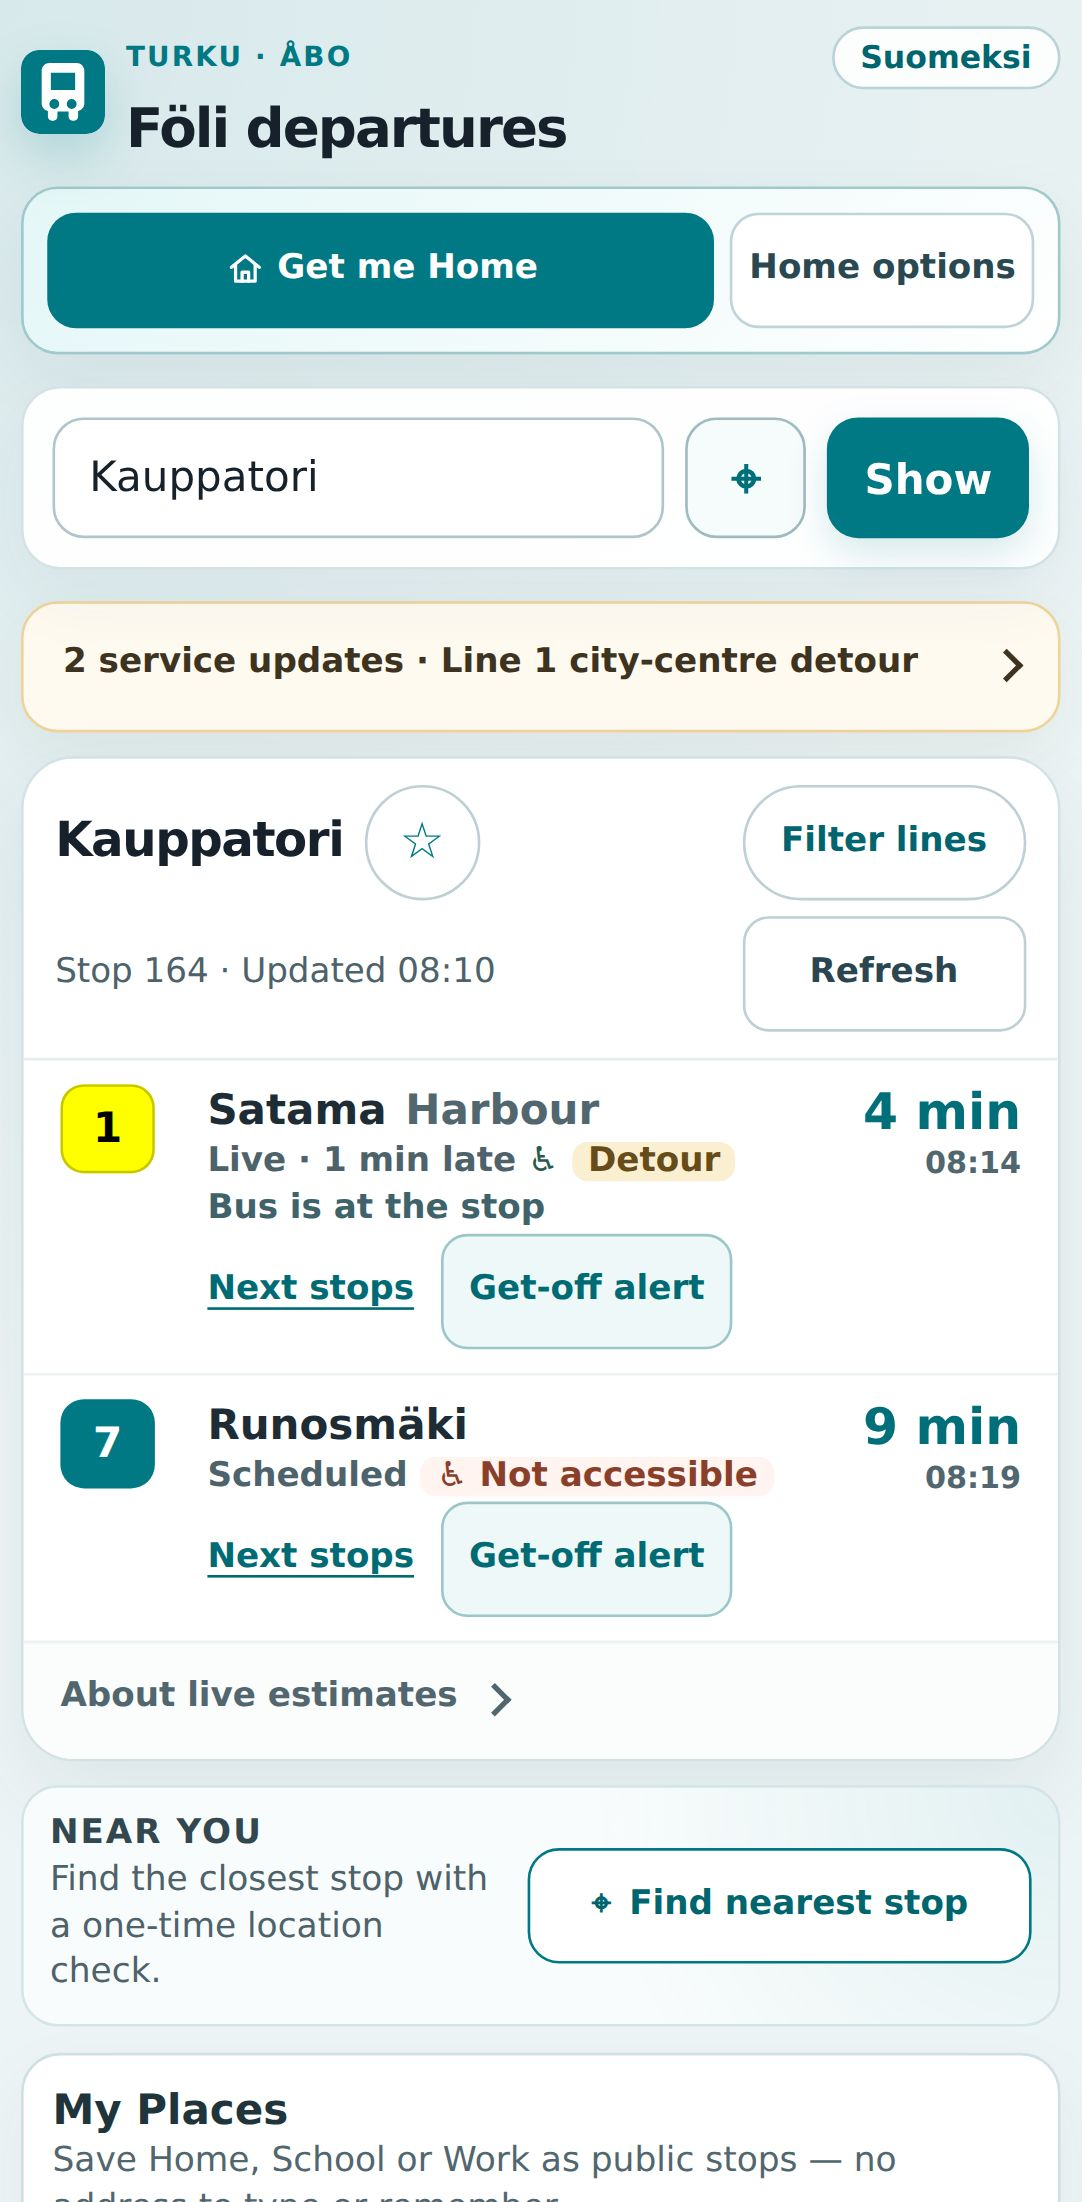
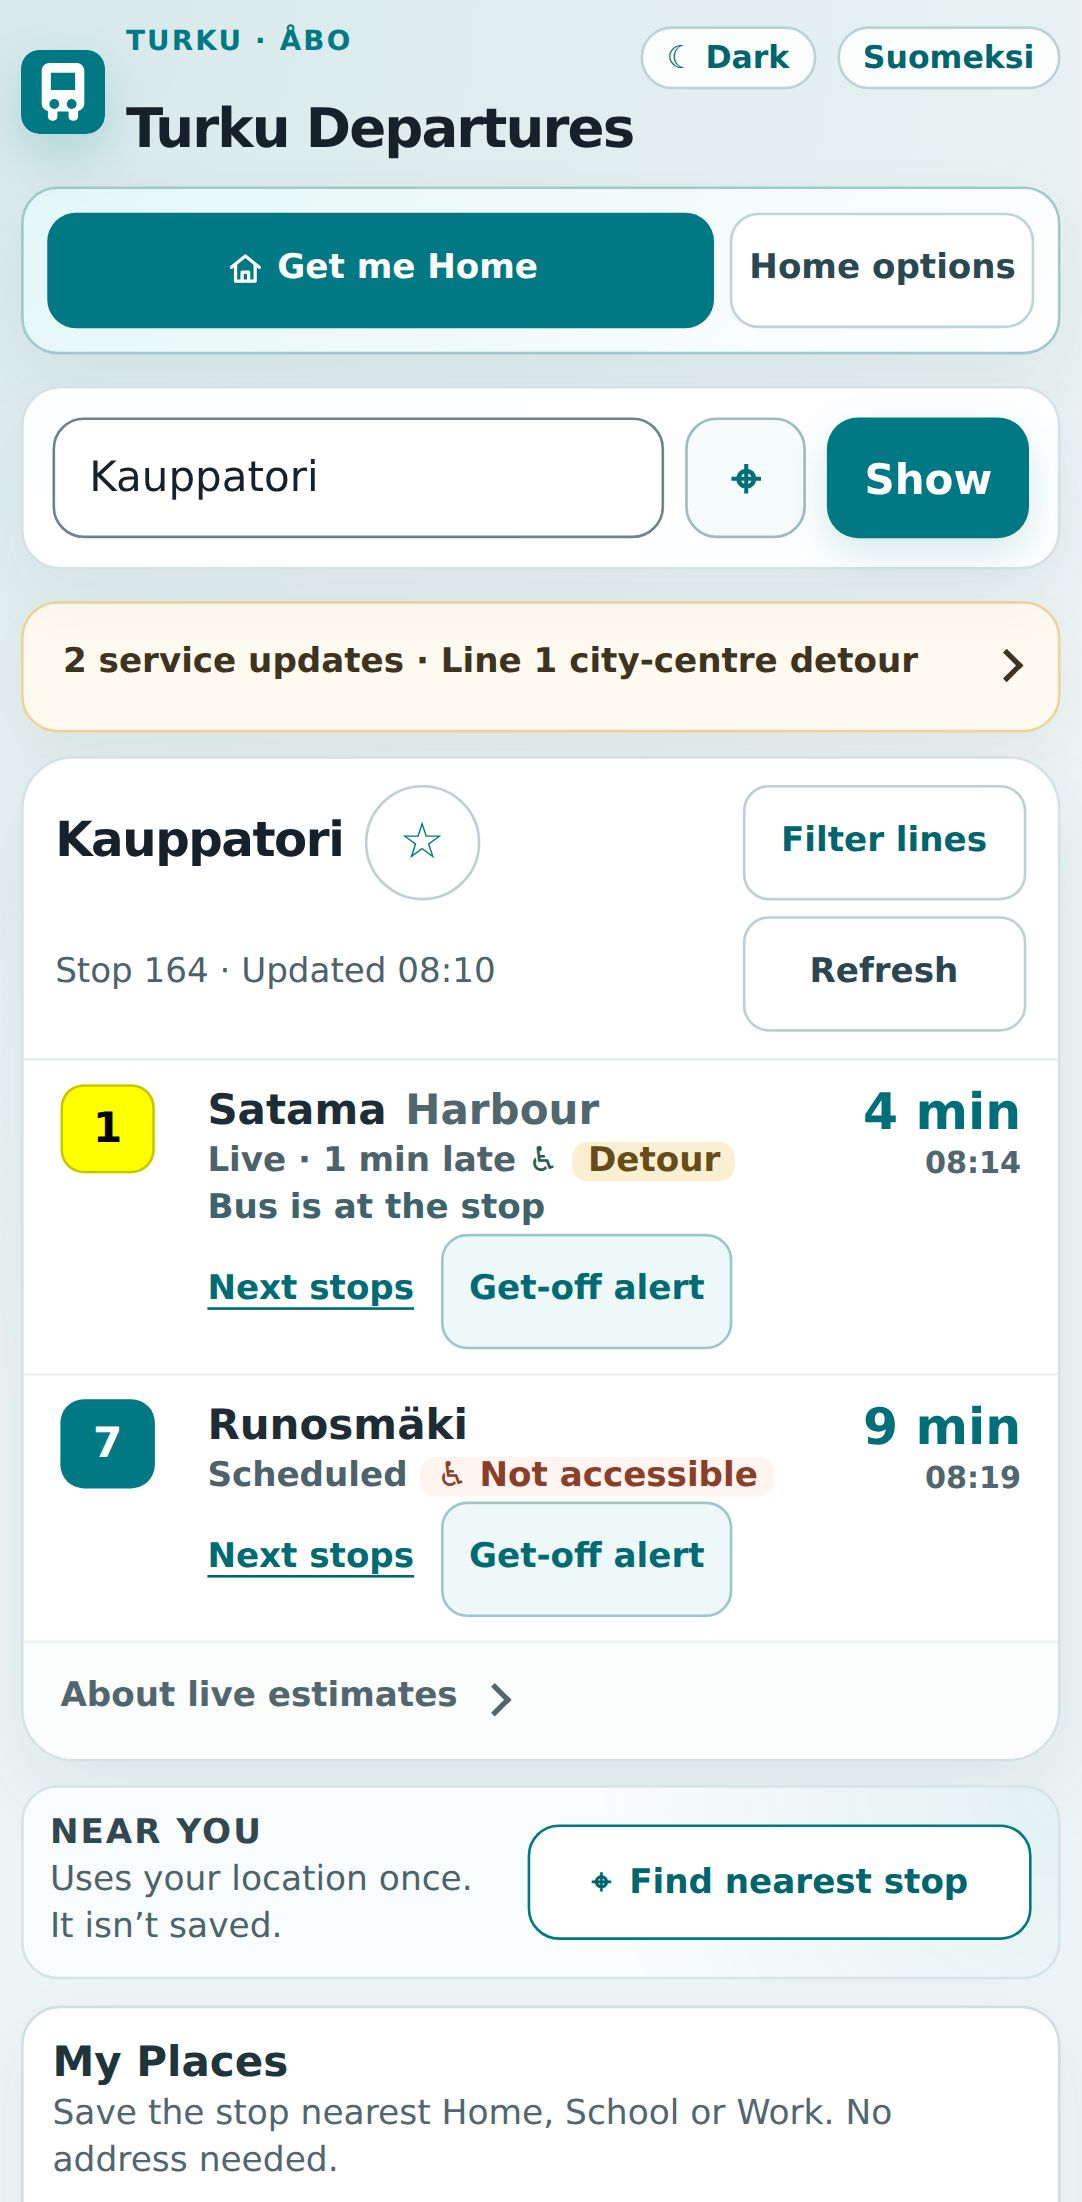
docs: re-capture product screenshots under the current name
The install sheet's screenshots (public/screenshots) and the README's
pictures still showed the retired "Föli departures" header, which the
brand guide rules out because it makes the app look official. All seven
are re-captured from the current build with the suite's own screenshot
scenarios. The README pictures are renamed turku-departures-*.png, the
scenarios now write those names, and a note in screenshots.spec.js says
where each file goes.

Claude-Session: https://claude.ai/code/session_01QwzvJPZmtQjgBfhU3uZad5

diff --git a/e2e/screenshots.spec.js b/e2e/screenshots.spec.js
@@ -1,4 +1,7 @@
 // The README's and the install sheet's product screenshots, written to artifacts/screenshots.
+// They are copied into the repository by hand when the screens change:
+//   turku-departures-{mobile,mobile-fi,ride-now,desktop}.png -> docs/assets/
+//   manifest-{board-phone,board-wide,ride-phone}.jpg -> public/screenshots/{board-phone,board-wide,ride-phone}.jpg
 import fs from "node:fs";
 import { expect, test } from "./support/test.js";
 import { seedHome } from "./support/places.js";
@@ -28,10 +31,10 @@ test("captures the README's product screenshots", async ({ page }, testInfo) => 
   fs.mkdirSync("artifacts/screenshots", { recursive: true });
   const fileName =
     testInfo.project.name === "webkit-mobile"
-      ? "foli-mobile-ios.png"
+      ? "turku-departures-mobile-ios.png"
       : testInfo.project.name === "chromium-mobile"
-        ? "foli-mobile-android.png"
-        : "foli-desktop.png";
+        ? "turku-departures-mobile.png"
+        : "turku-departures-desktop.png";
 
   // A phone is shown as a passenger first sees it, one screen; a laptop
   // page is short enough to show whole.

diff --git a/e2e/ride-mode.spec.js b/e2e/ride-mode.spec.js
@@ -272,7 +272,7 @@ test("Ride Mode says get off now once the bus is standing at the stop", async ({
     fs.mkdirSync("artifacts/screenshots", { recursive: true });
     await page
       .locator('section[aria-labelledby="ride-mode-title"]')
-      .screenshot({ path: "artifacts/screenshots/foli-ride-now.png" });
+      .screenshot({ path: "artifacts/screenshots/turku-departures-ride-now.png" });
     // And the whole screen, for the install sheet (public/screenshots),
     // over the board of the stop being got off at: under it, Kauppatori's
     // board showed the same bus four minutes from Kauppatori.

diff --git a/e2e/accessibility.spec.js b/e2e/accessibility.spec.js
@@ -307,7 +307,7 @@ test.describe("on a Finnish phone", () => {
     // The README's Finnish picture, a phone's first screen.
     if (testInfo.project.name === "chromium-mobile") {
       fs.mkdirSync("artifacts/screenshots", { recursive: true });
-      await page.screenshot({ path: "artifacts/screenshots/foli-mobile-fi.png" });
+      await page.screenshot({ path: "artifacts/screenshots/turku-departures-mobile-fi.png" });
     }
 
     const nextStops = page.getByRole("button", { name: "Seuraavat pysäkit" }).first();

diff --git a/e2e/layout.spec.js b/e2e/layout.spec.js
@@ -232,7 +232,7 @@ test("ten departures remain scan-friendly without horizontal table scrolling", a
   await page
     .locator('[aria-labelledby="departures-title"]')
     .screenshot({
-      path: `artifacts/screenshots/foli-${testInfo.project.name}-ten-departures.png`,
+      path: `artifacts/screenshots/turku-departures-${testInfo.project.name}-ten-departures.png`,
       animations: "disabled",
     });
 });

diff --git a/README.md b/README.md
@@ -17,19 +17,19 @@
 
 <p align="center">
   <img
-    src="docs/assets/foli-mobile.png"
+    src="docs/assets/turku-departures-mobile.png"
     alt="Turku Departures showing live and scheduled departures from Kauppatori"
     width="260"
   >
   &nbsp;
   <img
-    src="docs/assets/foli-ride-now.png"
+    src="docs/assets/turku-departures-ride-now.png"
     alt="Turku Departures get-off alert telling the passenger to get off now"
     width="260"
   >
   &nbsp;
   <img
-    src="docs/assets/foli-mobile-fi.png"
+    src="docs/assets/turku-departures-mobile-fi.png"
     alt="Turku Departures in Finnish"
     width="260"
   >
